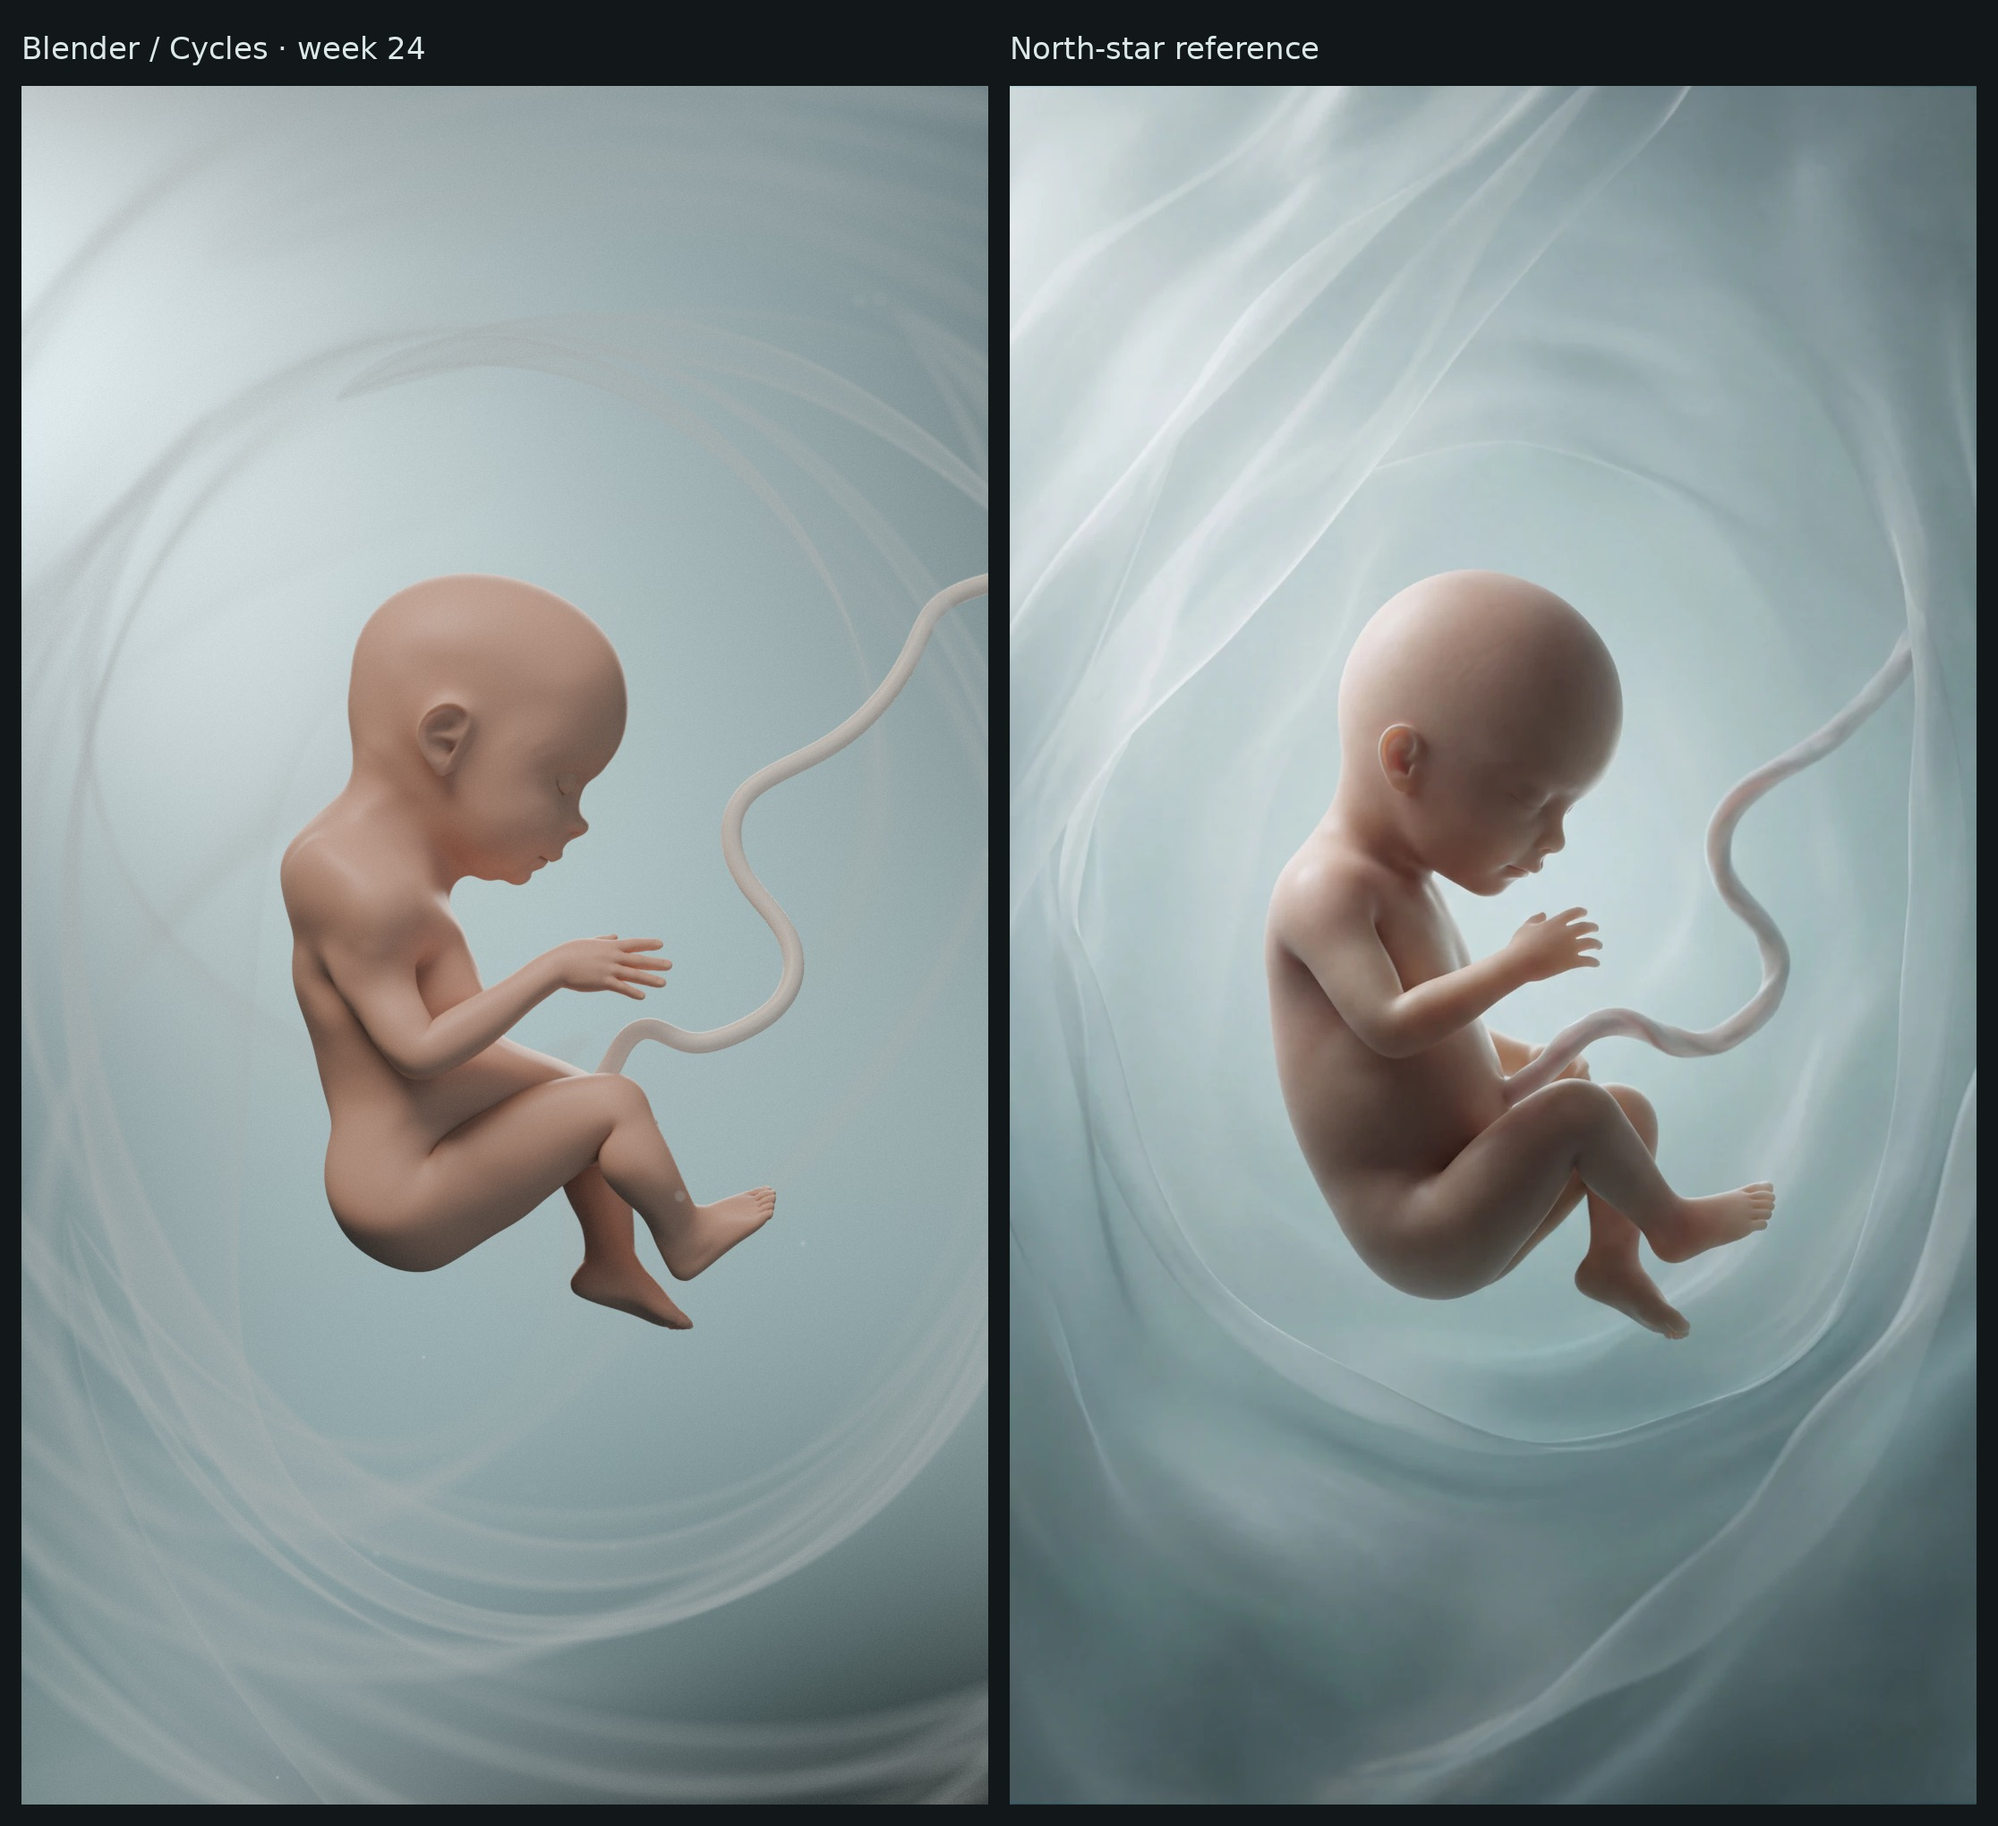
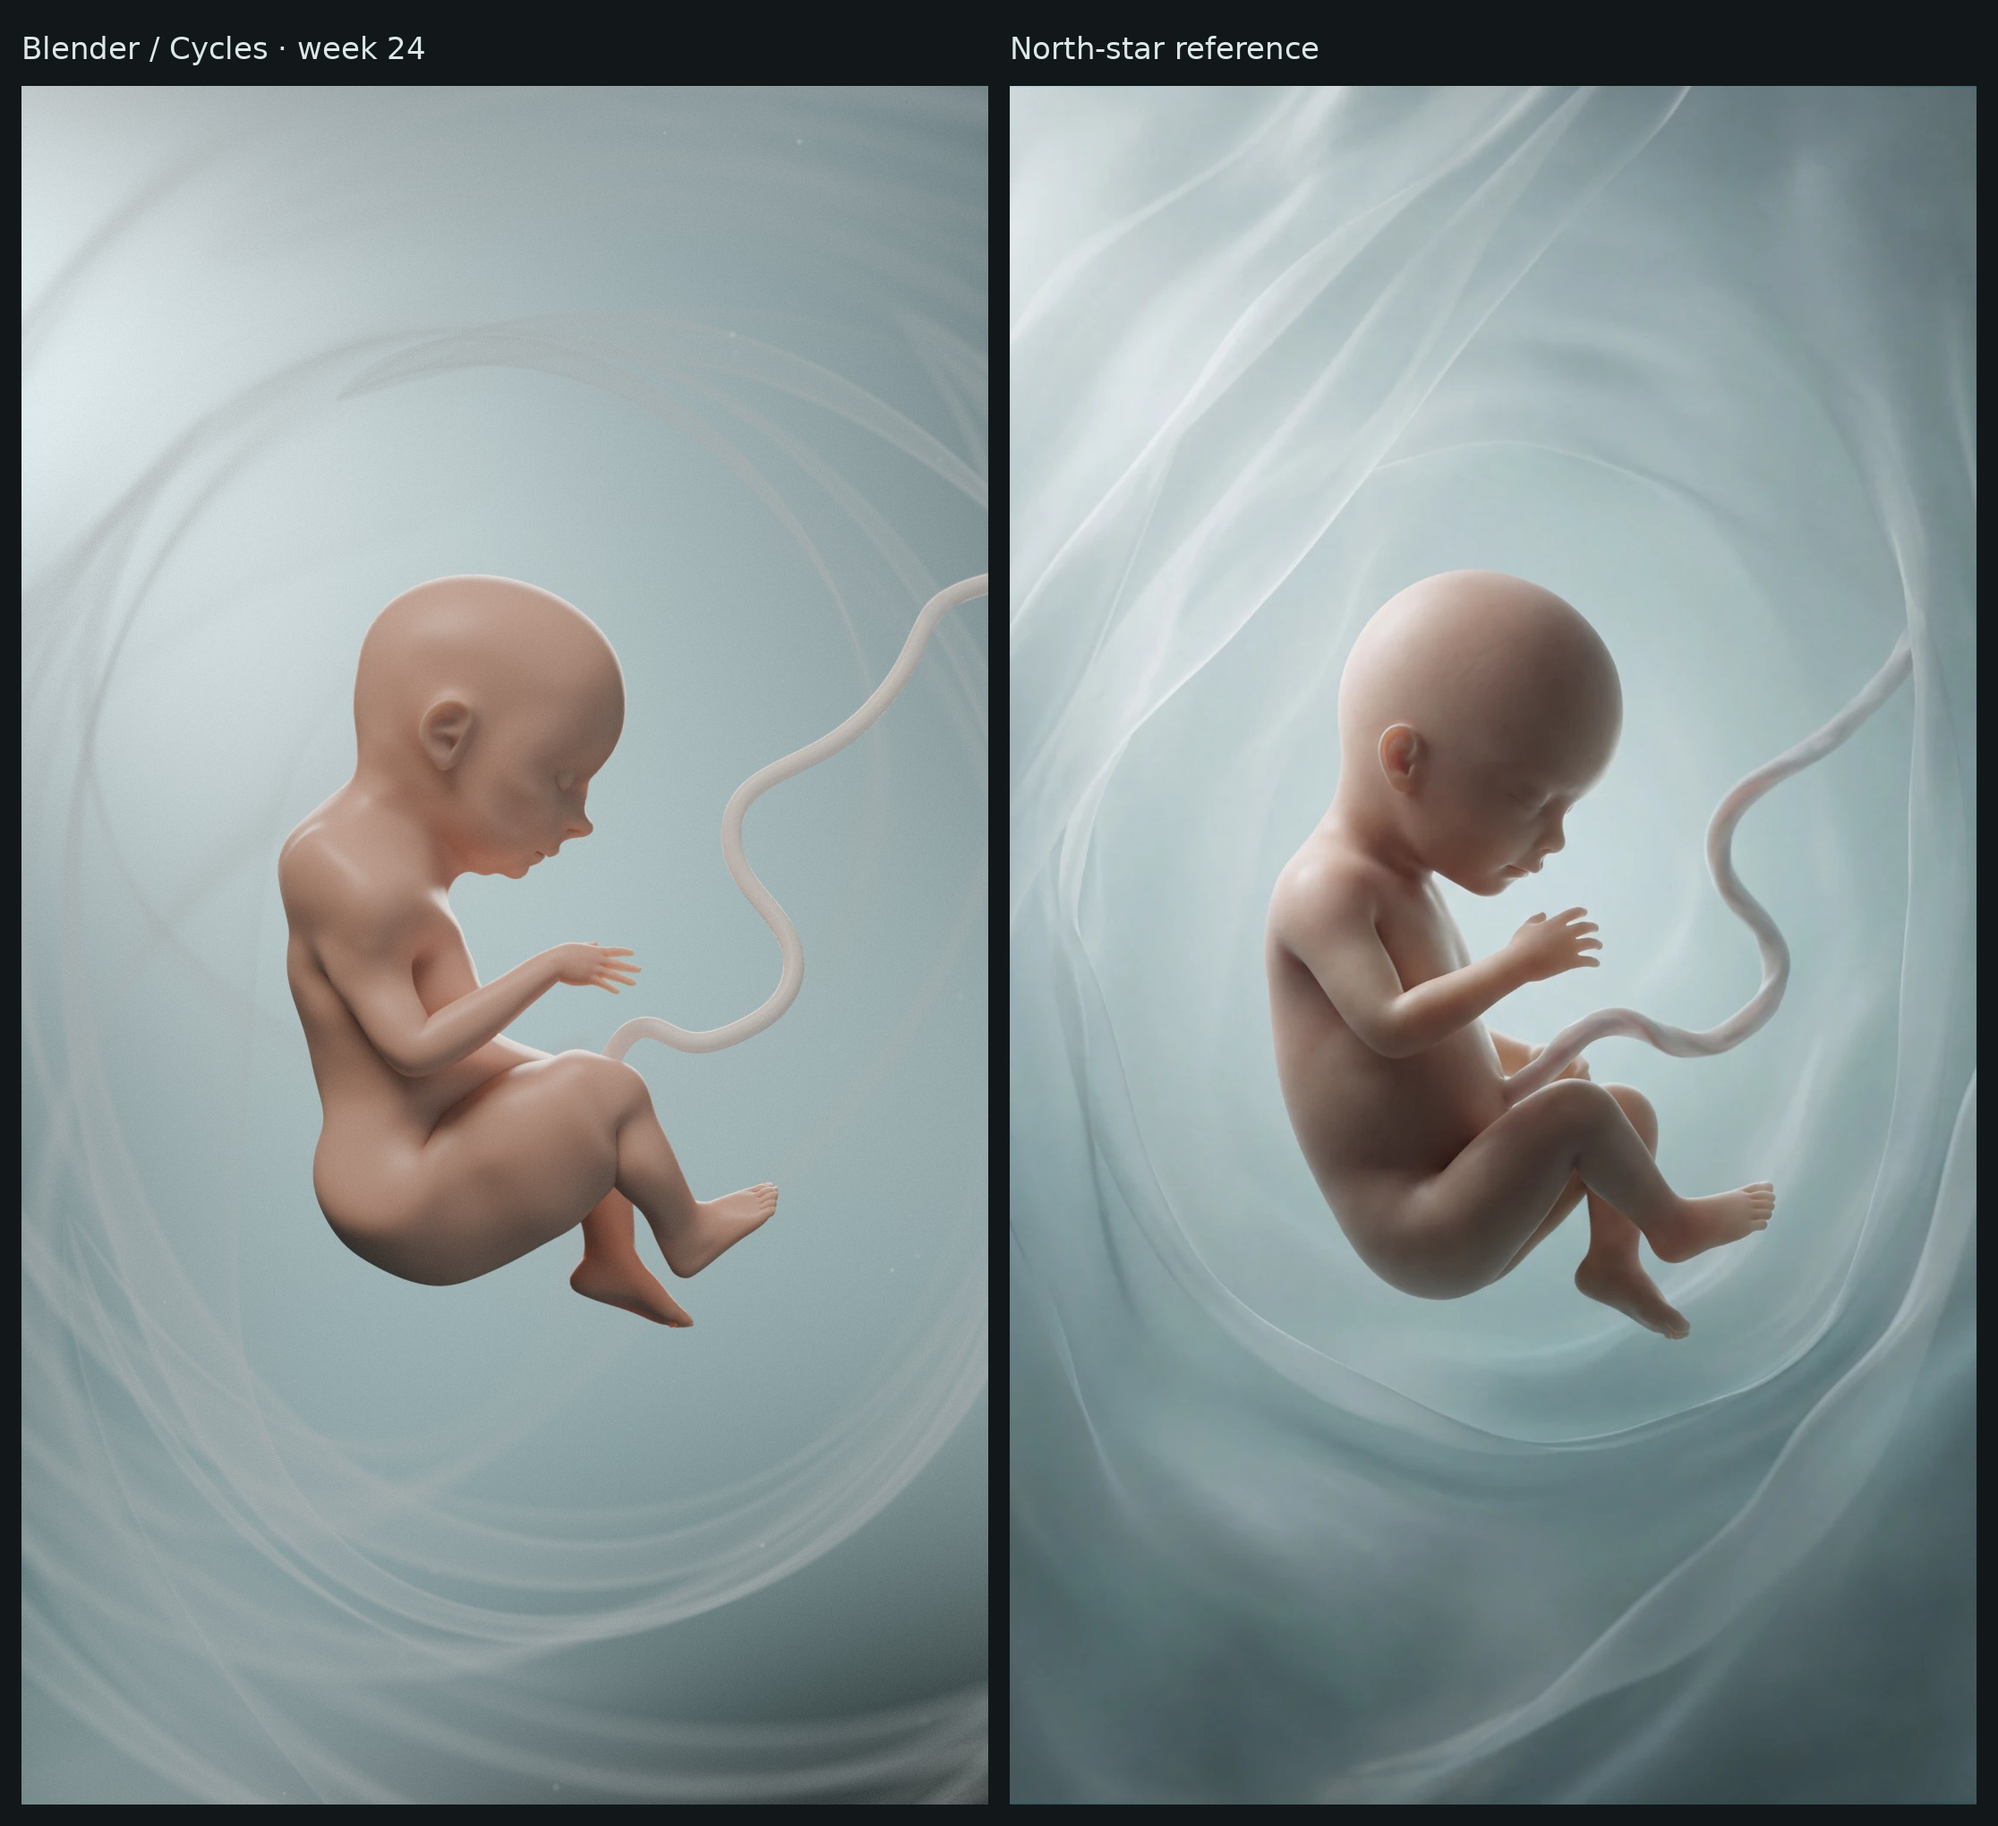
Fetal Growth Explorer: closer W24 fit — pose, face, skin
- Split spine flexion into lumbar and thoracic so the pelvis tucks under.
- MakeHuman targets for fuller thighs and buttocks, smaller hands, a more
  defined nose and leaner cheeks.
- Corrective smooth masked off the head (it read the head scale as
  deformation and parted the lips).
- Deeper, softer subsurface skin and a stronger rim light.
- Particles kept out of the volume in front of the body (they read as
  specks on the skin).

Claude-Session: https://claude.ai/code/session_012GPESLoAzkgxi7MKnnsx3V

diff --git a/fetal-growth-explorer/blender/scripts/fge/mhbody.py b/fetal-growth-explorer/blender/scripts/fge/mhbody.py
@@ -9,8 +9,8 @@
    enlarged about a pivot low on the neck, so the junction cannot fold.
 4. Pose: anatomical flexion of spine, neck and head relative to rest; the
    trunk is turned onto the reference pelvis->neck line; limbs are aimed along
-   the reference landmark skeleton. A Nelder-Mead solve over those three
-   flexion angles, the head size and the placement matches the body to the
+   the reference landmark skeleton. A Nelder-Mead solve over the lumbar,
+   thoracic, neck and head flexion, the head size and the placement matches the body to the
    segmented reference outline (lookdev/reference_mask.png) and the cranium's
    outline circle to the reference cranium, with a prior on every parameter.
 5. Deformation uses volume-preserving skinning plus corrective smoothing; the
@@ -40,7 +40,13 @@ MASK = ROOT / "lookdev" / "reference_mask.png"
 SHAPE_TARGETS = {
     "stomach/stomach-pregnant-incr.target.gz": 1.0,  # the round fetal abdomen
     "torso/torso-scale-depth-incr.target.gz": 0.5,
-    "buttocks/buttocks-volume-incr.target.gz": 0.7,
+    "buttocks/buttocks-volume-incr.target.gz": 1.0,
+    **{f"legs/{sd}-upperleg-fat-incr.target.gz": 0.8 for sd in ("l", "r")},  # the reference's full thighs
+    "legs/measure-thigh-circ-incr.target.gz": 0.5,
+    **{f"hands/{sd}-hand-scale-decr.target.gz": 0.5 for sd in ("l", "r")},
+    # a more defined profile than the chubby newborn default: nose, leaner cheeks
+    **{f"cheek/{sd}-cheek-volume-decr.target.gz": 0.6 for sd in ("l", "r")},
+    "nose/nose-scale-depth-incr.target.gz": 0.5,
 }
 HEAD_SCALE = 1.5
 HEAD_DROP = 0.06
@@ -57,11 +63,13 @@ JOINT_BONES = {
     "pelvis": "spine05", "neck_base": "neck01",
 }
 SEGMENTS = [("upperarm", "shoulder", "elbow"), ("lowerarm", "elbow", "wrist"), ("upperleg", "hip", "knee"), ("lowerleg", "knee", "ankle")]
-SPINE = ("spine05", "spine04", "spine03", "spine02", "spine01")
+LUMBAR = ("spine05", "spine04")
+THORACIC = ("spine03", "spine02", "spine01")
 NECK = ("neck01", "neck02", "neck03")
-# spine flex, neck flex, head flex (deg, + = flexion), head scale %, scale %, x mm, z mm, roll deg
-PRIOR = np.array([40.0, 8.0, -5.0, -10.0, 0.0, 0.0, 0.0, 0.0])
-SIGMA = np.array([20.0, 8.0, 6.0, 15.0, 10.0, 15.0, 15.0, 10.0])
+# lumbar flex, thoracic flex, neck flex, head flex (deg, + = flexion), head scale %, scale %, x mm, z mm, roll deg.
+# Lumbar flexion tucks the pelvis under (the reference's round, low rump).
+PRIOR = np.array([25.0, 25.0, 8.0, -5.0, -10.0, 0.0, 0.0, 0.0, 0.0])
+SIGMA = np.array([20.0, 15.0, 8.0, 6.0, 15.0, 10.0, 15.0, 15.0, 10.0])
 
 
 def _joint(rig, name):
@@ -111,12 +119,14 @@ class _Poser:
 
     def pose(self, x):
         rig = self.rig
-        spine, neck, head, head_scale, scale, tx, tz, roll = x
+        lumbar, thoracic, neck, head, head_scale, scale, tx, tz, roll = x
         rig.reset()
         rig.world = self.world0.copy()
         rig.scale[self.head] = 1 + head_scale / 100
-        for b in SPINE:
-            rig.bend(b, [1, 0, 0], spine / len(SPINE))
+        for b in LUMBAR:
+            rig.bend(b, [1, 0, 0], lumbar / len(LUMBAR))
+        for b in THORACIC:
+            rig.bend(b, [1, 0, 0], thoracic / len(THORACIC))
         for b in NECK:
             rig.bend(b, [1, 0, 0], neck / len(NECK))
         rig.bend("head", [1, 0, 0], head)
@@ -156,7 +166,7 @@ class _Poser:
         res = minimize(self.loss, PRIOR.copy(), method="Nelder-Mead", options={"xatol": 0.2, "fatol": 1e-4, "maxfev": max_evals, "initial_simplex": simplex})
         self.pose(res.x)
         cr = np.round(self.cranium(self.rig.verts()), 1)
-        print(f"[fge] pose: spine {res.x[0]:.0f}°, neck {res.x[1]:.0f}°, head {res.x[2]:.0f}°; loss {res.fun:.3f}; cranium circle {cr} vs {REF_CRANIUM}")
+        print(f"[fge] pose: lumbar {res.x[0]:.0f}°, thoracic {res.x[1]:.0f}°, neck {res.x[2]:.0f}°, head {res.x[3]:.0f}°; loss {res.fun:.3f}; cranium {cr} vs {REF_CRANIUM}")
         return res.x
 
 
@@ -178,10 +188,20 @@ def build(collection=None, max_evals: int = 700):
     bpy.context.view_layer.update()
 
     ob.modifiers["rig"].use_deform_preserve_volume = True
+    # Corrective smooth only below the head: it reads the head's scale as
+    # deformation and pulled the lips apart.
+    head = rig.index["head"]
+    sub = [i for i in range(len(rig.names)) if mhfit._descends(rig, i, head)]
+    body_w = 1.0 - np.clip(rig.W[:, sub].sum(axis=1) * 1.5, 0.0, 1.0)
+    vg = ob.vertex_groups.new(name="corrective_mask")
+    for i, wt in enumerate(body_w):
+        if wt > 0:
+            vg.add([i], float(wt), "REPLACE")
     cs = ob.modifiers.new("corrective", "CORRECTIVE_SMOOTH")
     cs.rest_source = "ORCO"
     cs.smooth_type = "LENGTH_WEIGHTED"
     cs.iterations = 20
+    cs.vertex_group = vg.name
     deps = bpy.context.evaluated_depsgraph_get()
     mesh = bpy.data.meshes.new_from_object(ob.evaluated_get(deps))
     mesh.transform(ob.matrix_world)

diff --git a/fetal-growth-explorer/blender/scripts/fge/lookdev.py b/fetal-growth-explorer/blender/scripts/fge/lookdev.py
@@ -117,7 +117,7 @@ def make_lights(target=(0.0, 0.0, 0.02)):
     area_light("LGT_Fill", (0.90, -1.00, 0.10), target, "#E2E4DF", 8.0, 1.4, col=col)
     # Soft back light straight behind: a thin environment-like edge all round,
     # and SSS glow through ears, fingers and toes.
-    area_light("LGT_Rim", (0.05, 1.00, 0.30), target, "#FFE2D0", 45.0, 0.8, col=col)
+    area_light("LGT_Rim", (0.05, 1.00, 0.30), target, "#FFE2D0", 80.0, 0.8, col=col)
     # Faint low bounce so the underside never goes muddy.
     area_light("LGT_Bounce", (0.20, -0.80, -0.90), target, "#C9BDB5", 1.5, 1.2, col=col)
 
@@ -217,12 +217,12 @@ def skin_material(name="MAT_Skin", translucency: float = 1.0, vessels: float = 1
     nt.links.new(m3.outputs["Value"], tint.inputs["Factor"])
     nt.links.new(ramp.outputs["Color"], tint.inputs["A"])
     nt.links.new(tint.outputs["Result"], bsdf.inputs["Base Color"])
-    bsdf.inputs["Subsurface Weight"].default_value = 0.55
+    bsdf.inputs["Subsurface Weight"].default_value = 0.85
     bsdf.inputs["Subsurface Radius"].default_value = (1.0, 0.35, 0.2)
-    bsdf.inputs["Subsurface Scale"].default_value = 0.0024 * translucency
+    bsdf.inputs["Subsurface Scale"].default_value = 0.004 * translucency
     bsdf.inputs["Subsurface IOR"].default_value = 1.38
     bsdf.inputs["Subsurface Anisotropy"].default_value = 0.4
-    bsdf.inputs["Roughness"].default_value = 0.5
+    bsdf.inputs["Roughness"].default_value = 0.42
     bsdf.inputs["Specular IOR Level"].default_value = 0.5
     bsdf.inputs["Sheen Weight"].default_value = 0.12
     bsdf.inputs["Sheen Roughness"].default_value = 0.45
@@ -476,12 +476,17 @@ def make_particles(material, count=60, seed=7, name="ENV_Particles"):
     me_src.shade_smooth()
     me_src.materials.append(material)
     obs = []
-    for i in range(count):
+    placed = 0
+    while placed < count:
         # Shell around the fetus, denser toward the camera-side volume.
         r = rng.uniform(0.09, 0.30)
         th = rng.uniform(0, 2 * math.pi)
         ph = rng.uniform(-1.0, 1.0)
         p = (r * math.cos(th) * math.sqrt(1 - ph * ph), rng.uniform(-0.35, 0.45), r * ph * 1.6)
+        if p[1] < 0.10 and (p[0] / 0.10) ** 2 + (p[2] / 0.15) ** 2 < 1.0:
+            continue  # in front of / beside the body it reads as a speck on the skin
+        i = placed
+        placed += 1
         ob = bpy.data.objects.new(f"{name}_{i:03d}", me_src)
         s = rng.uniform(0.00025, 0.0007)
         ob.scale = (s, s, s)
